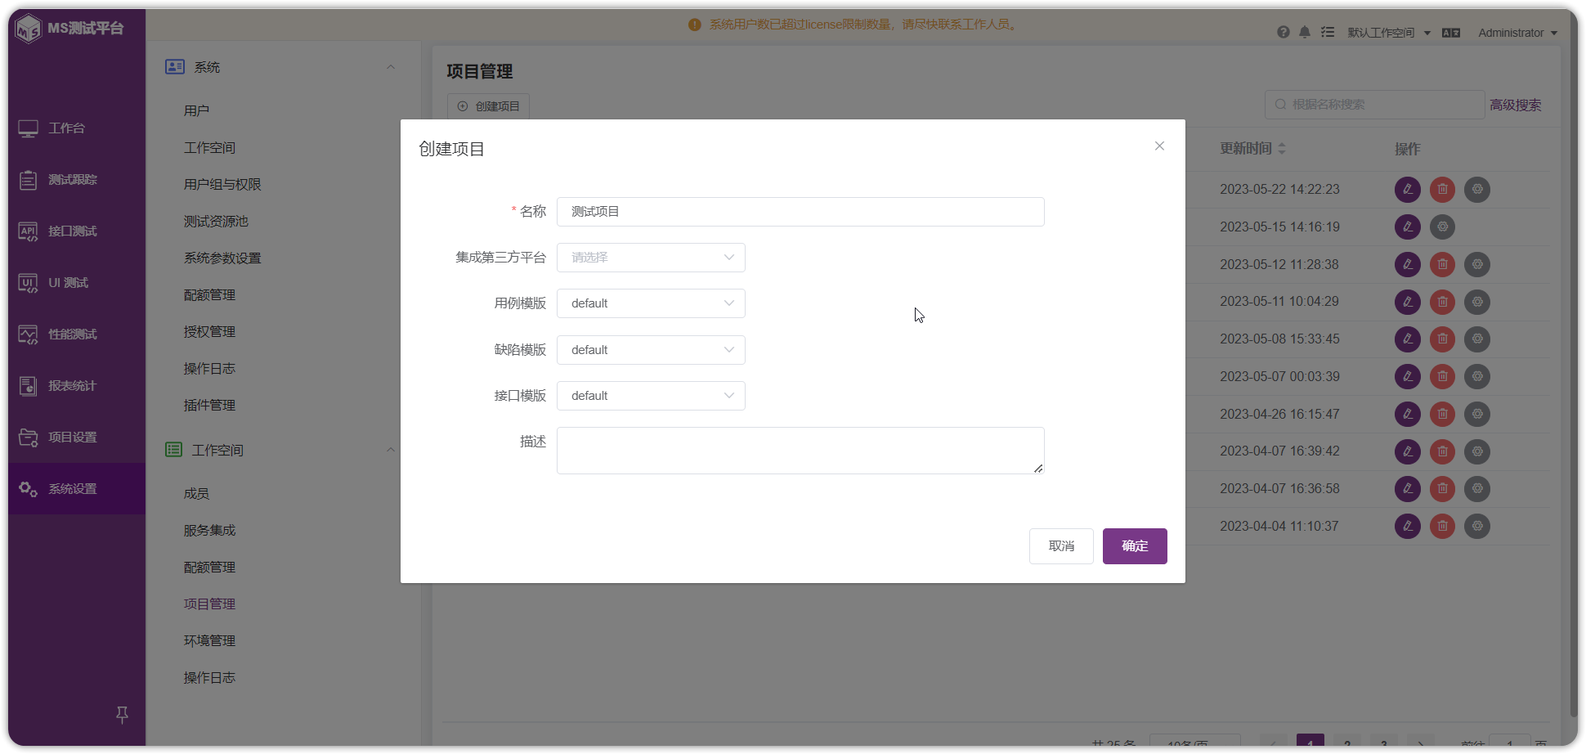
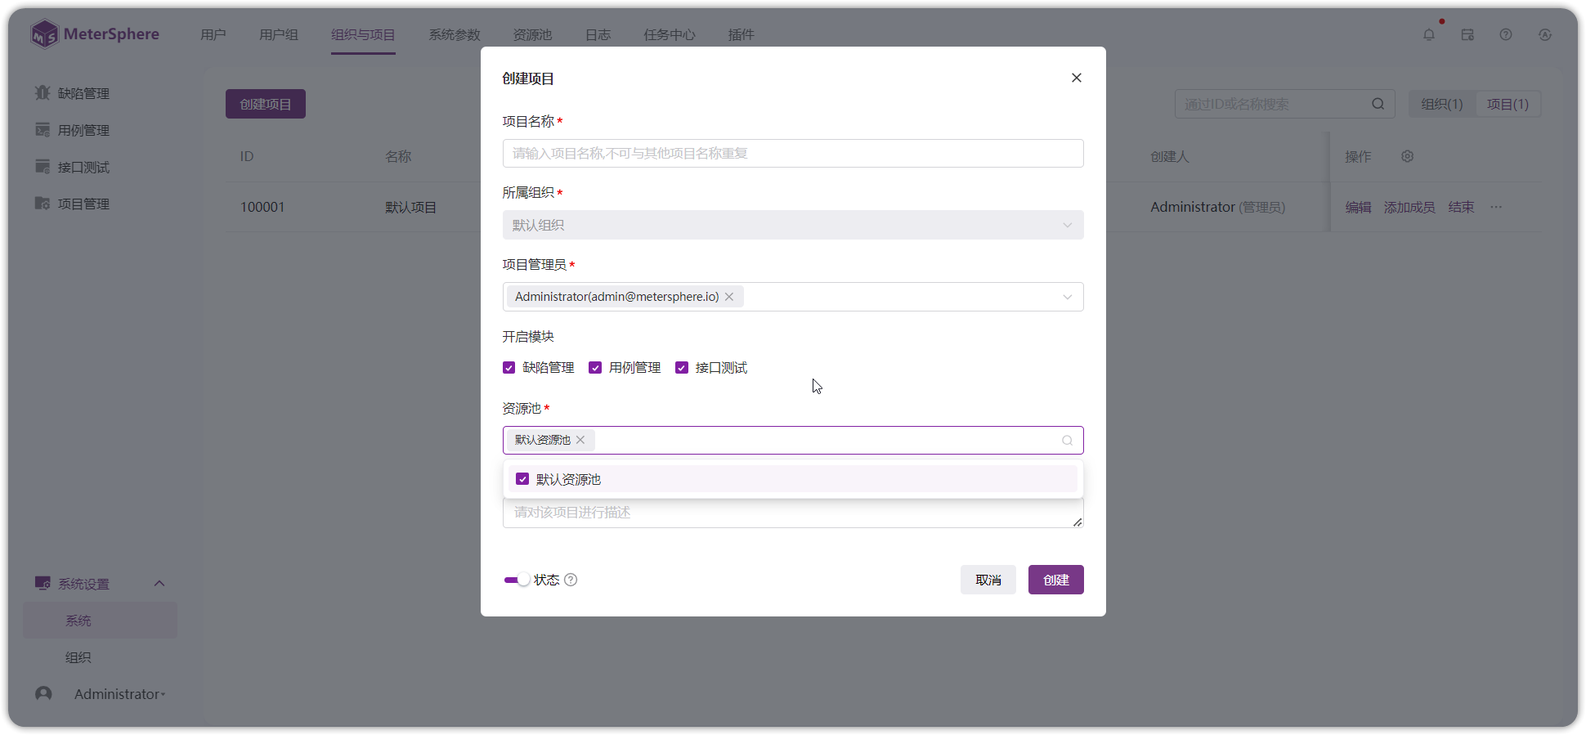
modified:   docs/user_manual/system_management/system.md

diff --git a/docs/user_manual/system_management/system.md b/docs/user_manual/system_management/system.md
@@ -4,121 +4,194 @@ description: MeterSphere 一站式开源持续测试平台官方文档。MeterSp
 
 !!! ms-abstract ""
     系统主要针对系统级别的管理配置功能。目前，MeterSphere 内置三级租户体系。平台默认用户组划分为：<br>
-     - 【系统级用户组】：系统管理员、系统成员<br>
+     - 【系统用户组】：系统管理员、系统成员。<br>
      - 【组织用户组】：组织管理员、组织成员。<br>
      - 【项目用户组】：项目管理员、项目成员。<br>
-    系统的用户权限【用户组】功能页面中自定义，系统预置管理员角色权限不可编辑修改。
+    系统的用户权限【系统设置-系统-用户组】功能页面中自定义，系统预置管理员角色权限不可编辑修改。
 
 ## 1 用户
 !!! ms-abstract ""
-    点击左侧【系统设置】下拉菜单中的【系统】进入【用户】界面。默认显示当前系统中的全部用户列表，可以对用户进行【新增】、【邮箱邀请】、【导入用户】、【修改用户组】、【查询】、【编辑】、【重置密码、【禁用】、【删除】等操作。MeterSphere 部署成功后会自动创建一个系统管理员账户，用户名为 admin，默认密码为 metersphere。如将平台用于生产环境，请及时更改密码。
+    点击左侧【系统设置-系统-用户】进入用户管理界面。默认显示当前系统中的全部用户列表，可以对用户进行【创建用户】【邮箱邀请】【导入用户】【修改用户组】【查询】【编辑】【重置密码】【禁用】【删除】等操作。MeterSphere 部署成功后会自动创建一个系统管理员账户，用户名为 admin，默认密码为 metersphere。如将平台用于生产环境，请及时更改密码。
 ![!用户管理](../../img/system_management/系统用户.png){ width="900px" }
 
 !!! ms-abstract ""
 
     - **创建用户**<br>
-    点击【创建用户】按钮创建用户，在弹出页面中编辑用户信息，可以批量【添加用户】并设置【用户组】权限，保存后添加为平台用户。注意：初始密码为邮箱地址。
+    点击【创建用户】按钮创建用户，在弹出页面中编辑用户信息，默认为系统成员。可以批量添加用户并设置用户组权限，保存后添加为平台用户。注意：初始密码为邮箱地址。
 ![!创建用户](../../img/system_management/新增用户.png){ width="900px" }
 
 !!! ms-abstract ""
-    需要创建多个用户时，可点击【导入用户】按钮，下载模版并填写用户信息，通过 Excel 文件导入用户。
-![!创建用户](../../img/system_management/系统导入用户.png){ width="900px" }
+    - **邮箱邀请**<br>
+    支持通过邮箱邀请用户，可填写多个邮箱地址，默认为系统成员，可以编辑修改用户权限。点击【发送邮件】按钮，系统将批量发送邮件，邀请给用户自主注册账号密码信息登录MeterSphere平台。<br>
+    注意：使用该功能需要提前在【系统设置-系统-系统参数：邮件设置】提前配置上可用的SMTP邮件信息。
+![!创建用户](../../img/system_management/邮箱邀请.png){ width="900px" }
+
+!!! ms-abstract ""
+    - **导入用户**<br>
+    需要批量导入用户时，可点击【导入用户】按钮，下载模版并填写用户信息，通过 Excel 文件导入用户。
+![!创建用户](../../img/system_management/导入用户.png){ width="900px" }
 
 
 !!! ms-abstract ""
-
-    - **为用户添加用户组**<br>
-    点击【添加用户组】按钮为用户添加用户组信息。新用户至少所属一个用户组，每个用户可以属于多个用户组。
-![!设置用户角色](../../img/system_management/系统下添加用户组.png){ width="900px" }
+    - **编辑用户信息**<br>
+    直接点击列表【用户组】可以直接修改用户组信息。  <br>
+    点击列表【编辑】可以修改用户信息，可编辑内容用户基础信息及权限。
+![!设置用户角色](../../img/system_management/编辑用户1.png){ width="900px" }
+![!设置用户角色](../../img/system_management/编辑用户2.png){ width="900px" }
 
 
 !!! ms-abstract ""
 
     - **查询用户**<br>
-    用户列表右上方，使用搜索框，根据 ID 或名称查询用户。
-![针对用户的其他操作](../../img/system_management/查询用户.png){ width="900px" }
-
-
-!!! ms-abstract ""
-
-    - **针对用户的其他操作**<br>
-    在用户列表右侧操作列，可以点击【Switch】开关切换选定用户启用状态，点击【编辑】按钮可修改用户信息，点击【修改密码】可修改用户的密码，点击【删除】按钮删除该用户。
-![针对用户的其他操作](../../img/system_management/针对用户的其他操作.png){ width="900px" }
-
-## 2 工作空间
-!!! ms-abstract ""
-    点击左侧【系统】下拉菜单中的【工作空间】进入工作空间界面。右侧显示当前系统中的全部工作空间列表，可以对工作空间进行【新增】、【编辑】、【查询】、【删除】等操作。
-![!工作空间管理](../../img/system_management/系统工作空间首页.png){ width="900px" }
-
+    用户列表右上方搜索框，可根据姓名、邮箱、收集查询用户。
+![针对用户的其他操作](../../img/system_management/用户查询.png){ width="900px" }
 
 !!! ms-abstract ""
 
-    - **创建工作空间**<br>
-    点击【创建工作空间】按钮创建工作空间，在弹出页面中填写名称和描述。
-![!创建工作空间](../../img/system_management/创建工作空间.png){ width="900px" }
+    - **用户批量操作**<br>
+    用户列表多选数据，可批量对用户进行【添加至项目】【添加至用户组】【添加至组织】【重置密码】【禁用】【启用】 【删除】操作。<br>
+![针对用户的其他操作](../../img/system_management/用户批量操作.png){ width="900px" }
 
 !!! ms-abstract ""
+    - **用户更多操作**<br>
+    在用户列表右侧操作列，可以点击【...】可以【重置密码】为初始邮箱密码，支持【禁用】【删除】用户操作。<br>
+    点击【设置】图标，可以对用户列表展示条数，列表字段排序做调整。
+![针对用户的其他操作](../../img/system_management/用户其他操作.png){ width="900px" }
+![针对用户的其他操作](../../img/system_management/用户列表设置.png){ width="900px" }
 
-    - **编辑工作空间**<br>
-    点击【编辑】按钮编辑工作空间，在弹出页面中修改名称和描述。
-![!编辑工作空间](../../img/system_management/编辑工作空间.png){ width="900px" }
 
 
+
+
+
+## 2 用户组
 !!! ms-abstract ""
-
-    - **删除工作空间**<br>
-    点击【删除】按钮删除工作空间。
-![!删除工作空间](../../img/system_management/删除工作空间.png){ width="900px" }
-
-## 3 用户组与权限
-!!! ms-abstract ""
-    点击左侧【系统】下拉菜单中的【用户组与权限】进入用户组界面。用户可基于自身需求创建自定义用户组，并赋予用户组不同的权限设置。其中【超级管理员】用户组拥有系统全部工作空间与项目的操作权限，用户可以为 admin 用户添加【超级管理员】权限来管理系统全部数据。
-![系统用户组首页](../../img/system_management/系统用户组首页3.png){ width="900px" }
+    点击左侧【系统设置-系统-用户组】菜单进入用户组界面。用户可基于自身需求创建自定义用户组，并赋予用户组不同的权限设置。系统预置管理员角色权限不可编辑，系统预置角色不可删除，内容如下：</br>
+    - 【系统用户组】：系统管理员、系统成员。<br>
+     - 【组织用户组】：组织管理员、组织成员。<br>
+     - 【项目用户组】：项目管理员、项目成员。<br>
+    
+![系统用户组首页](../../img/system_management/预置管理员.png){ width="900px" }
 
 !!! ms-abstract ""
 
     - **创建用户组**<br>
-    点击【创建用户组】按钮新建自定义用户组。在弹出的界面中编辑用户组名称及描述，选择用户组所属类型。使用【全局用户组】开关切换用户组适用状态。新建用户组类型为系统类型时自动切换为全局用户组，此开关为默认打开状态；新建用户组类型为其他类型时，全局状态可关闭，此时须为用户组选择所属工作空间。
-![创建用户组](../../img/system_management/创建用户组.png){ width="900px" }
-
-!!! ms-abstract ""
-
-    - **为用户组配置权限**<br>
-    回到用户组列表中，点击【设置权限】按钮进入用户组权限设置页面，在该页面中基于用户组需求勾选操作权限，一个用户组即为一个权限集，点击【确定】按钮完成配置。
-![为用户组配置权限](../../img/system_management/为用户组配置权限4.png){ width="900px" }
-
-
-!!! ms-abstract ""
-
-    - **编辑用户组信息**<br>
-    点击【编辑】按钮编辑选定用户组信息，在弹出页面中可以更改用户组名称及描述。
-![编辑用户组信息](../../img/system_management/编辑用户组信息.png){ width="900px" }
+    系统管理员可以对系统、组织、项目模块点击【+】按钮添加自定义用户组，可以勾选配置平台用户访问菜单权限，点击【保存】按钮保存勾选的权限配置。点击【恢复默认】按钮可恢复为上一次保存的权限。<br>
+    支持对用户组做【重命名】【删除】操作。选中用户组有【+】表示当前用户组管理员可以对该用户组快捷添加成员。
+![系统用户组首页](../../img/system_management/添加用户组.png){ width="900px" }
+![系统用户组首页](../../img/system_management/添加自定义用户组.png){ width="900px" }
 
 
 !!! ms-abstract ""
 
     - **查询用户组**<br>
-    用户组列表右上方，使用搜索框，根据名称查询用户组。
-![编辑用户组信息](../../img/system_management/查询用户组信息.png){ width="900px" }
+    用户组列表左上方，使用搜索框，根据名称查询用户组。
+![编辑用户组信息](../../img/system_management/搜索用户组.png){ width="900px" }
+
+
+
+## 3 组织与项目
+### 3.1 组织
+!!! ms-abstract ""
+    点击左侧【系统设置-系统-组织与项目】菜单进入组织与项目管理界面。右侧默认显示当前系统中的【组织】页签，可以切换为【项目】页签。组织管理列表可对组织进行【查询】【编辑】【添加成员】【结束】【删除】等操作。<br>
+    注意：社区版只可使用一个组织，且不可删除默认组织。
+![!工作空间管理](../../img/system_management/默认组织.png){ width="900px" }
+!!! ms-abstract ""
+
+!!! ms-abstract ""
+
+    - **编辑组织**<br>
+    点击【编辑】按钮编辑组织，在弹出页面中修改名称、组织管理员、描述。
+![!编辑工作空间](../../img/system_management/编辑组织.png){ width="900px" }
 
 
 !!! ms-abstract ""
+
+    - **添加成员**<br>
+    点击【添加成员】【列表成员数组】按钮均可给当前组织添加成员用户。
+![!删除工作空间](../../img/system_management/组织添加成员.png){ width="900px" }
+
+!!! ms-abstract ""
+
+    - **结束组织**<br>
+    点击【结束】按钮，结束组织不展示在组织切换列表。
+![!删除工作空间](../../img/system_management/结束组织.png){ width="900px" }
+
+### 3.2 项目
+!!! ms-abstract ""
+    【系统设置-系统-组织与项目】界面，右侧页签切换为【项目】页签，进入项目管理界面。
+    可以对项目做【新增】【查询】【编辑】【添加成员】【结束】【删除】操作
     
-    - **删除用户组**<br>
-    用户组列表中，点击【删除】按钮删除自定义的用户组，系统用户组不支持删除。
-![编辑用户组信息](../../img/system_management/删除用户组信息.png){ width="900px" }
+![!工作空间管理](../../img/system_management/组织项目切换.png){ width="900px" }
 
-## 4 测试资源池管理
 !!! ms-abstract ""
-    点击左侧【系统】下拉菜单中的【测试资源池】进入资源池界面。测试资源池主要用于接口测试及性能等测试。右侧资源池列表中，可以通过【Switch】开关切换资源池启用状态，点击【编辑】按钮更改资源池信息，点击【删除】按钮删除选定资源池。
-![!测试资源池管理](../../img/system_management/系统测试资源池首页.png){ width="900px" }
 
-### 4.1 创建 Node 资源池
+    - **新增项目**<br>
+    点击【创建项目】按钮新建项目，在弹出页面中编辑项目名称、项目管理员、开启模块、描述、启用停用状态等信息。
+![!编辑工作空间](../../img/system_management/创建项目.png){ width="900px" }
+
+
 !!! ms-abstract ""
-    点击【创建资源池】按钮，在弹出的界面中为新建资源池编辑名称、描述等相关信息，【类型】选择【Node】，填写相应的配置信息，并支持设定资源池最大并发数量或最大线程数量。
-![!创建资源池](../../img/system_management/系统下创建资源池.png){ width="900px" }
+
+    - **编辑项目**<br>
+    点击【编辑】按钮编辑项目，在弹出页面中修改项目名称、项目管理员、开启模块、描述、启用停用状态等信息。
+![!编辑工作空间](../../img/system_management/编辑项目.png){ width="900px" }
 
 
+!!! ms-abstract ""
+
+    - **添加成员**<br>
+    点击【添加成员】【列表成员数组】按钮均可给当前项目添加成员用户。
+![!删除工作空间](../../img/system_management/组织项目添加项目成员.png){ width="900px" }
+
+!!! ms-abstract ""
+
+    - **结束项目**<br>
+    点击【结束】按钮，结束项目不展示在项目切换列表。
+![!删除工作空间](../../img/system_management/结束项目.png){ width="900px" }
+
+!!! ms-abstract ""
+
+    - **删除项目**<br>
+    点击【删除】按钮，删除项目系统会在 30天 后执行删除项目，可以撤销删除状态。
+![!删除工作空间](../../img/system_management/删除项目.png){ width="900px" }
+
+
+
+## 4 系统参数
+!!! ms-abstract ""
+    点击左侧【系统设置-系统-系统参数】进入参数设置界面，用于平台【基本设置】【邮件设置】【内存清理】等参数的设置。</br>
+    基本信息：设置平台站点URL。平台接口测试执行过程中 资源池 节点需要通过配置的【当前站点URL】下载 JMX 等测试资源文件。URL 值一般为通过浏览器访问 MeterSphere 的地址。</br>
+    邮件设置：设置SMTP邮件信息，用户邮箱邀请用户，测试消息推送。</br>
+    内存清理：可以设置系统日志保留时长，定时每天0点定时清理。</br>
+    变更历史：对系统内所有的项目生效，超出设置的用例变更历史会被清除，更新后立即生效。
+![系统参数设置首页](../../img/system_management/系统设置.png){ width="900px" }
+![系统参数设置首页](../../img/system_management/系统参数内存清理.png){ width="900px" }
+
+!!! ms-abstract ""
+    - **邮件配置**<br>
+    点击【邮件配置】按钮，填写SMTP邮件配置基础信息，可以测试链接，链接通过即可使用。
+![!系统参数邮件](../../img/system_management/系统参数邮件配置.png){ width="900px" }
+
+
+
+## 5 资源池
+!!! ms-abstract ""
+    点击左侧【系统设置-系统-资源池】资源池界面。测试资源池主要用于接口测试。页面左上角可以【查询】资源池；点击【编辑】按钮更改资源池信息，点击【删除】按钮删除选定资源池。<br>
+    注意：社区版不可新建资源池，可在编辑页面可以添加node节点。不可删除默认资源池。
+![!测试资源池管理](../../img/system_management/资源池页面.png){ width="900px" }
+
+
+    
+!!! ms-abstract ""
+     - **编辑 Node 资源池**<br>
+
+    点击【编辑】按钮，在弹出的界面中为资源池名称、描述、站点URL、应用组织、用途、类型、添加资源池方式等相关信息，类型默认选择【Node】，填写相应的配置 ip 端口信息，并支持设定资源池最大并发数量或最大线程数量。<br>
+    资源池支持单个添加和使用yaml批量添加两种方式。
+![!创建资源池](../../img/system_management/资源池编辑.png){ width="900px" }
+
+
+<!--
 ### 4.2 创建 Kubernetes 资源池 (X-Pack)
 !!! ms-abstract ""
     点击【创建资源池】按钮，在弹出的界面中为新建资源池编辑名称、描述等相关信息，【类型】选择【Kubernetes】，填写相应的配置信息，并支持设定资源池最大并发数量或最大线程数量。
@@ -160,40 +233,15 @@ description: MeterSphere 一站式开源持续测试平台官方文档。MeterSp
 
 ![!创建K8S资源池](../../img/system_management/k8s列表显示.png){ width="900px" }
 
+-->
 
+
+## 6 日志
 !!! ms-abstract ""
-    
-    - **查询资源池**<br>
-    资源池列表右上方，使用搜索框，根据名称查询资源池。
+    点击左侧【系统设置-系统-日志】进入日志界面，显示登录用户权限范围内的全部测试资源日志信息，并支持使用高级查询来快速查找相关日志。
+![系统参数设置首页](../../img/system_management/系统设置日志.png){ width="900px" }
 
-
-!!! ms-abstract ""
-    - **删除资源池**<br>
-    资源池列表中，点击【删除】按钮删除选定资源池。
-
-## 5 系统参数设置
-!!! ms-abstract ""
-    点击左侧【系统】下拉菜单中的【系统参数设置】进入参数设置界面，用于平台【基本配置】、【邮件设置】、【LDAP设置】、【显示设置】、【认证设置】、【模块管理】等参数的设置。
-![系统参数设置首页](../../img/system_management/系统参数设置首页.png){ width="900px" }
-
-### 5.1 基本配置
-!!! ms-abstract ""
-    性能测试执行过程中 node-controller 节点需要通过配置的【当前站点URL】下载 JMX 等测试资源文件。在执行性能测试前需要配置并检查测试资源池中的节点可以正常访问到该 URL，URL 值一般为通过浏览器访问 MeterSphere 的地址。
-![!当前站点URL](../../img/system_management/系统参数设置首页_1.png){ width="900px" }
-
-!!! ms-abstract "选项"
-
-     - 【当前站点URL】：当前 MeterSphere 站点地址，用于性能测试 JMeter 从 MeterSphere 站点获取压测脚本等数据。	 
-     - 【并发数】：限制场景接口自动化中场景并行执行时的并发数量。
-     - 【Prometheus 地址】：Prometheus 监控服务地址。
-     - 【selenium-docker 地址】：selenium 服务地址。
-     - 【接口默认本地执行】：禁用后所有执行功能只能通过测试资源池执行，为了不影响接口正常执行，选择【禁用】后，请在【 项目设置-应用管理-接口测试 】中配置接口执行的资源池。
-
-### 5.2 邮件设置
-!!! ms-abstract ""
-    切换至【邮件设置】标签，点击【编辑】按钮可以对 SMTP 信息进行修改、保存。
-![!编辑SMTP信息](../../img/system_management/编辑smtp信息.png){ width="900px" }
-
+<!--
 ### 5.3 LDAP 设置
 !!! ms-abstract ""
     切换至【LDAP设置】标签，点击【编辑】按钮配置 LDAP 登录相关参数。
@@ -217,63 +265,39 @@ description: MeterSphere 一站式开源持续测试平台官方文档。MeterSp
 
 !!! ms-abstract ""    
     启用 LDAP 认证后，登录页会新增 LDAP 登录选项。
-![ldap登录](../../img/system_management/ldap登录.png){ width="900px" }
+![ldap登录](../../img/system_management/ldap登录.png){ width="900px" }-->
 
-### 5.4 显示设置 (X-Pack)
+
+## 7 任务中心
 !!! ms-abstract ""
-    切换至【显示设置】标签，点击【编辑】按钮配置系统的 logo 以及显示的文字和图片，填写完成后，点击【保存】即可。
-![显示设置](../../img/system_management/显示设置.png){ width="900px" }
+    点击左侧【系统设置-系统-任务中心】进入任务中心管理界面。<br>
+    实时任务：支持查看当前接口用例、接口场景正在运行的任务状态。<br>
+    定时任务：可创建测试定时执行任务
+   ![任务中心](../../img/system_management/任务中心.png){ width="900px" }
 
-### 5.5 认证设置 (X-Pack)
+## 8 插件
 !!! ms-abstract ""
-    切换至【认证设置】标签，点击【添加】按钮，填写 CAS、OIDC、OAuth2 等方式的单点登录协议认证信息。<br>
-![认证配置](../../img/system_management/认证配置_2.png){ width="900px" }
-
-!!! ms-abstract ""
-    可以点击【启用/禁用】按钮或者【删除】按钮，若启用 CAS、OIDC 认证后，登录页会新增 CAS、OIDC 登录选项。<br>
-![认证配置](../../img/system_management/认证配置.png){ width="900px" }
-
-![认证配置](../../img/system_management/认证配置_1.png){ width="900px" }
-
-### 5.6 模块管理 (X-Pack)
-!!! ms-abstract ""
-    切换至【模块管理】标签，点击【启用/禁用】按钮，系统只显示【启用】的模块，【禁用】的模块不会在系统中出现。
-![模块管理](../../img/system_management/模块管理.png){ width="900px" }
-
-## 6 配额管理 (X-Pack)
-!!! ms-abstract ""
-    进入【配额管理】页面，可【编辑】上方的工作空间默认配额，编辑完成后，在配额列表中使用默认配置的，将同步更新编辑的数据。
-![!配额管理](../../img/system_management/工作空间配额管理编辑.png){ width="900px" }
-
-![!配额管理](../../img/system_management/工作空间配额管理默认配额.png){ width="900px" }
+    点击左侧【系统设置-系统-插件】进入插件管理界面，MeterSphere v3.0 LTS 版本支持 DevOps、API 导入、请求、项目管理、协议 类型的插件。支持按应用场景、插件名称查询。
+![插件](../../img/system_management/插件.png){ width="900px" }
 
 !!! ms-abstract ""
-    点击工作空间的【编辑】按钮，可对单个工作空间进行配额管理设置
-![!配额管理](../../img/system_management/单个工作空间配额管理.png){ width="900px" }
+    - **上传插件**<br>
+    进入下载地址：https://github.com/metersphere 下载需要使用的且和当前MeterSphere版本对应的插件 jar 包。
+    点击【上传插件】按钮，上传插件 jar 包，支持配置插件使用组织范围、描述。
+    ![插件](../../img/system_management/上传插件.png){ width="900px" }
 
 !!! ms-abstract ""
-    点击【删除】按钮，即可删除已配置好的内容，恢复到最初状态，使用默认配额的状态也由【是】变成【否】
-![!配额管理](../../img/system_management/工作空间配额管理删除.png){ width="900px" }
-
-## 7 授权管理
-!!! ms-abstract ""
-    点击左侧【系统】下拉菜单中的【授权管理】进入授权管理界面，点击【授权验证】导入企业版证书，开启 X-Pack 功能。
-![授权管理首页](../../img/system_management/授权管理首页.png){ width="900px" }
-
-## 8 操作日志
-!!! ms-abstract ""
-    点击左侧【系统】下拉菜单中的【操作日志】进入日志界面，显示登录用户权限范围内的全部测试资源日志信息，并支持使用高级查询来快速查找相关日志。
-![操作日志首页](../../img/system_management/操作日志首页.png){ width="900px" }
-
-## 9 插件管理 
-### 9.1 WebSocket 插件 (X-Pack)
-!!! ms-abstract ""
-    在【系统设置】-【系统】-【插件管理】界面下，上传 WebSocket 插件
-![jenkins-plugin](../../img/system_management/插件管理1.png){ width="900px" }
+    - **编辑插件**<br>
+    列表点击【编辑】按钮修改插件 jar 配置，支持更新插件使用组织范围、描述。
+    ![插件](../../img/system_management/更新插件.png){ width="900px" }
 
 !!! ms-abstract ""
-    在【接口测试】-【接口自动化】界面下，新建一个场景，点击场景右下角【+】号，添加 WebSocket 相关请求。
-![jenkins-plugin](../../img/system_management/插件管理2.png){ width="900px" }
+    - **禁用插件**<br>
+    列表点击【禁用】按钮禁用当前使用插件。
+    ![插件](../../img/system_management/禁用插件.png){ width="900px" }
 
-![jenkins-plugin](../../img/system_management/插件管理3.png){ width="900px" }
-
+!!! ms-abstract ""
+    - **删除插件**<br>
+    列表点击【删除】按钮删除当前使用插件。
+    ![插件](../../img/system_management/禁用插件.png){ width="900px" }
+    
